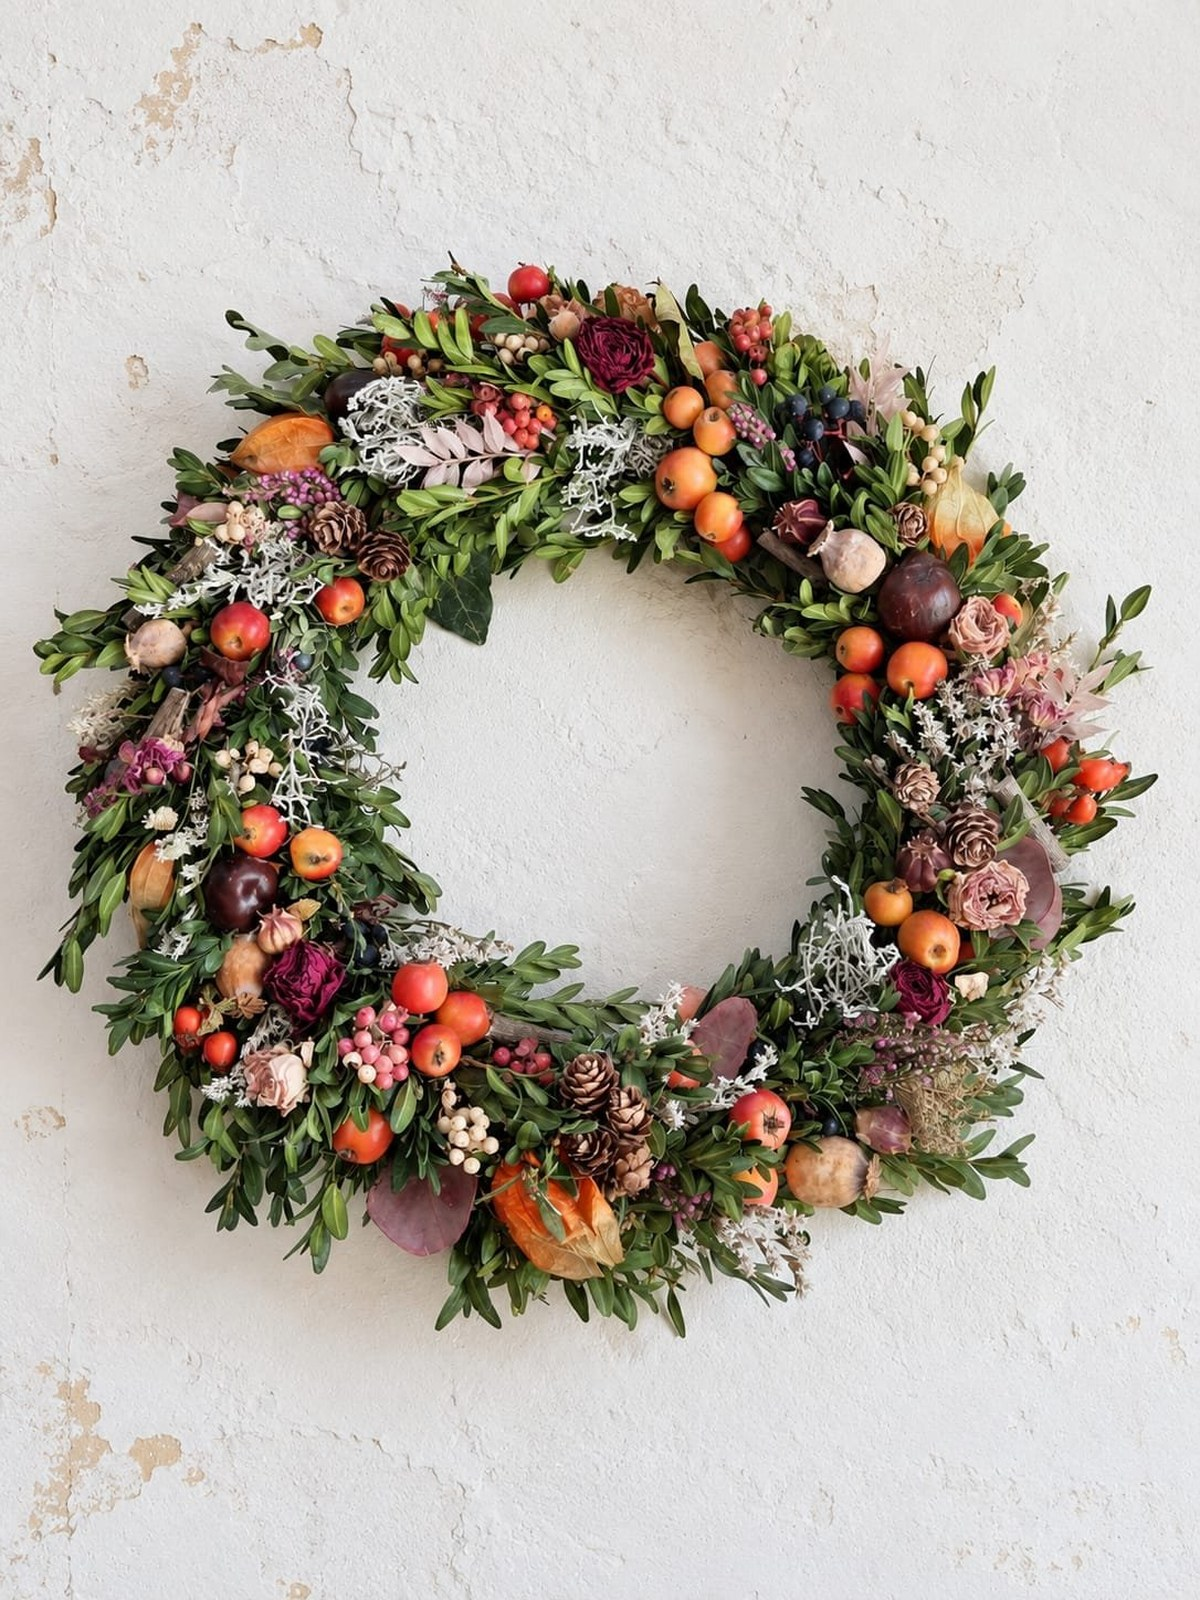
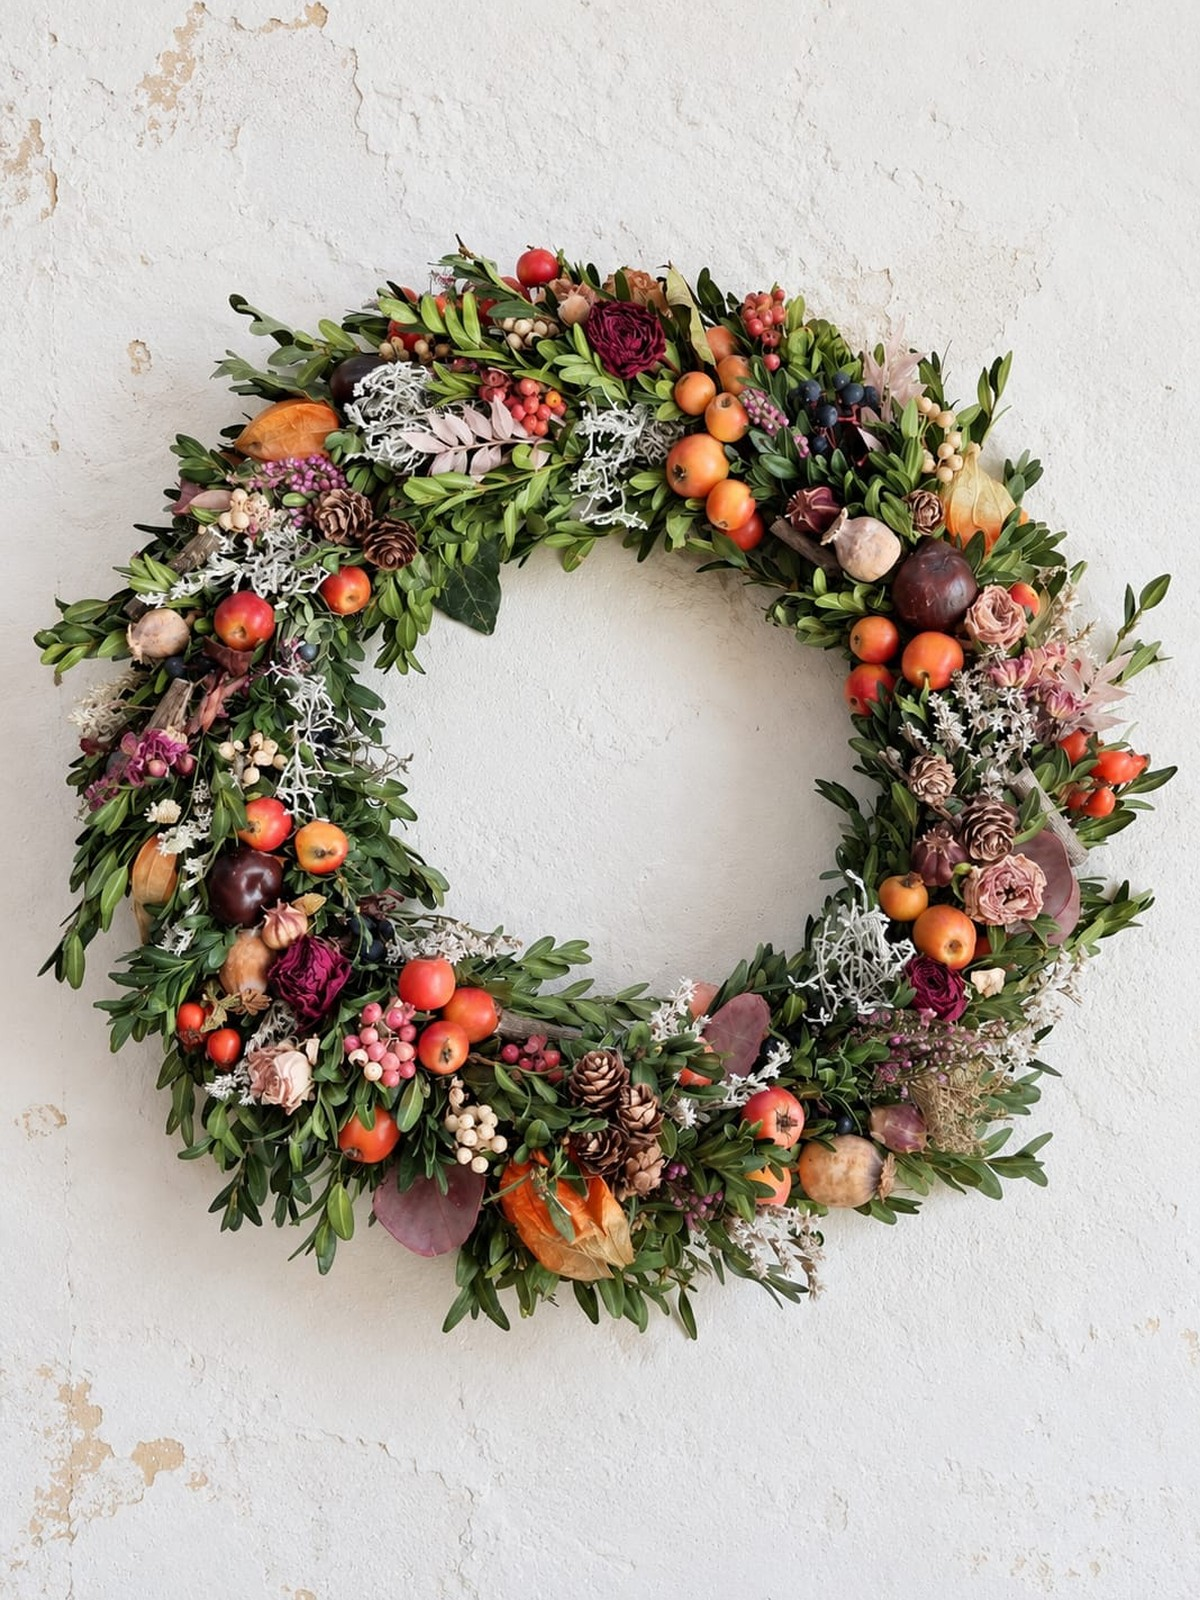
Center wreath photos at matching visual scale
Recrop product shots so each wreath sits in the middle at roughly
the same size, and use object-center in the catalog grid.

diff --git a/src/components/wreath-catalog.tsx b/src/components/wreath-catalog.tsx
@@ -58,7 +58,7 @@ export function WreathCatalog({ items }: { items: Wreath[] }) {
                   src={w.image}
                   alt={w.name}
                   fill
-                  className="object-cover object-top transition-transform duration-700 group-hover:scale-105"
+                  className="object-cover object-center transition-transform duration-700 group-hover:scale-105"
                   sizes="(max-width:768px) 100vw, 33vw"
                 />
                 {!w.available && (

diff --git a/src/app/page.tsx b/src/app/page.tsx
@@ -313,7 +313,7 @@ export default async function HomePage() {
                       src={w.image}
                       alt={w.name}
                       fill
-                      className="object-cover object-top transition-transform duration-700 group-hover:scale-105"
+                      className="object-cover object-center transition-transform duration-700 group-hover:scale-105"
                       sizes="(max-width:768px) 100vw, 33vw"
                     />
                   </div>

diff --git a/src/app/vence/[slug]/page.tsx b/src/app/vence/[slug]/page.tsx
@@ -93,7 +93,7 @@ export default async function WreathDetailPage({ params }: Props) {
             alt={`${wreath.name} — ${wreath.season}, ${wreath.size}`}
             fill
             priority
-            className="object-cover object-top"
+            className="object-cover object-center"
             sizes="(max-width:1024px) 100vw, 50vw"
           />
         </div>
